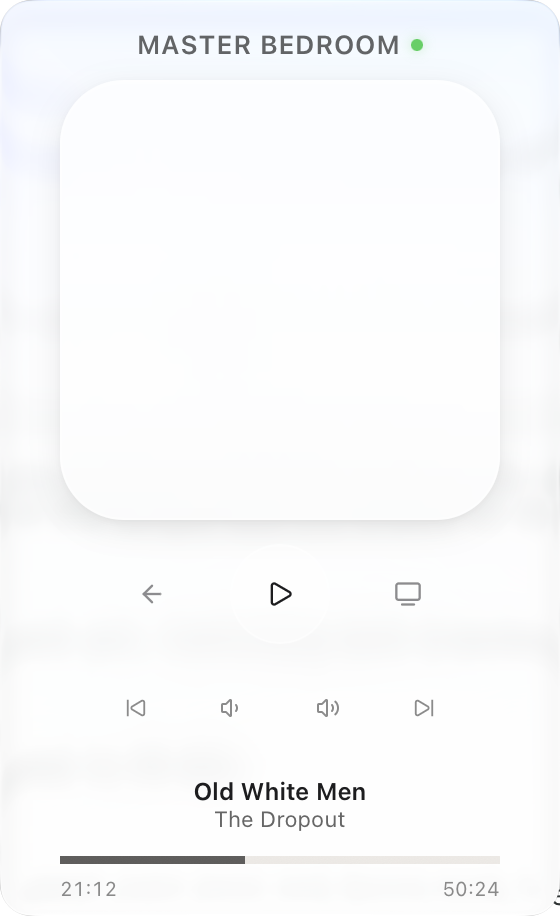
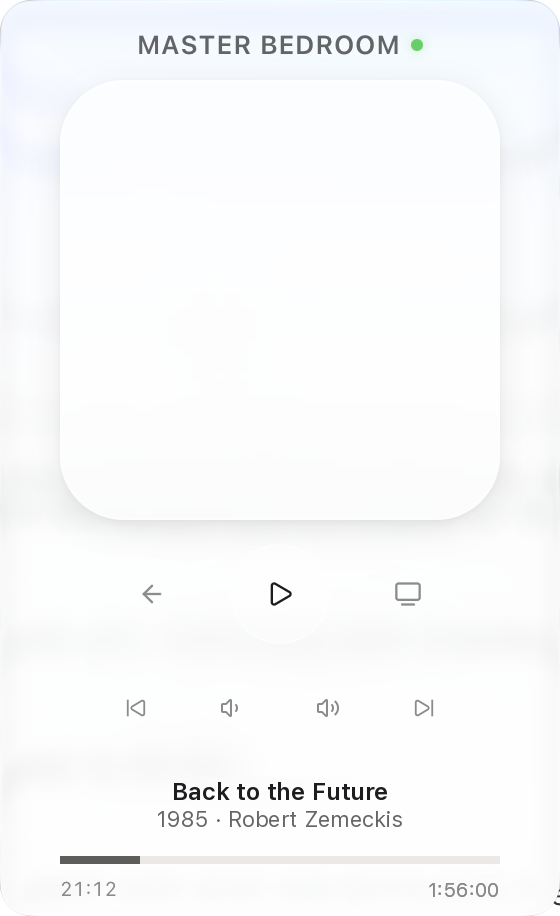
docs: show Back to the Future on the demo remote (#104)

Changed region(s): [[0.2429, 0.8559, 0.7286, 0.9476], [0.7589, 0.9476, 0.8804, 0.9782]]

diff --git a/docs/index.html b/docs/index.html
@@ -559,7 +559,7 @@
               src="remote.png"
               width="560"
               height="916"
-              alt="The remote window, showing a touchpad, playback buttons, and the show that's playing"
+              alt="Apple TV Remote showing Back to the Future (1985) playing"
             />
             <!-- Invisible buttons over the screenshot's controls, positioned in % of the image. -->
             <div
